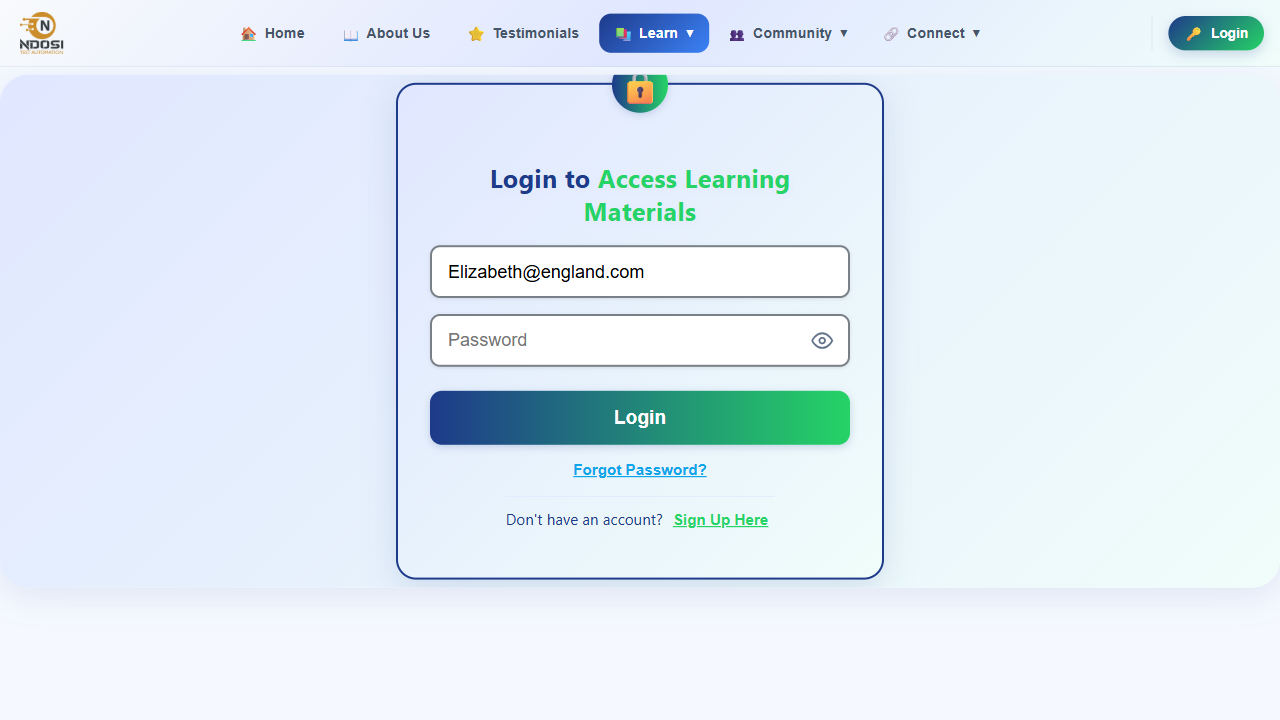
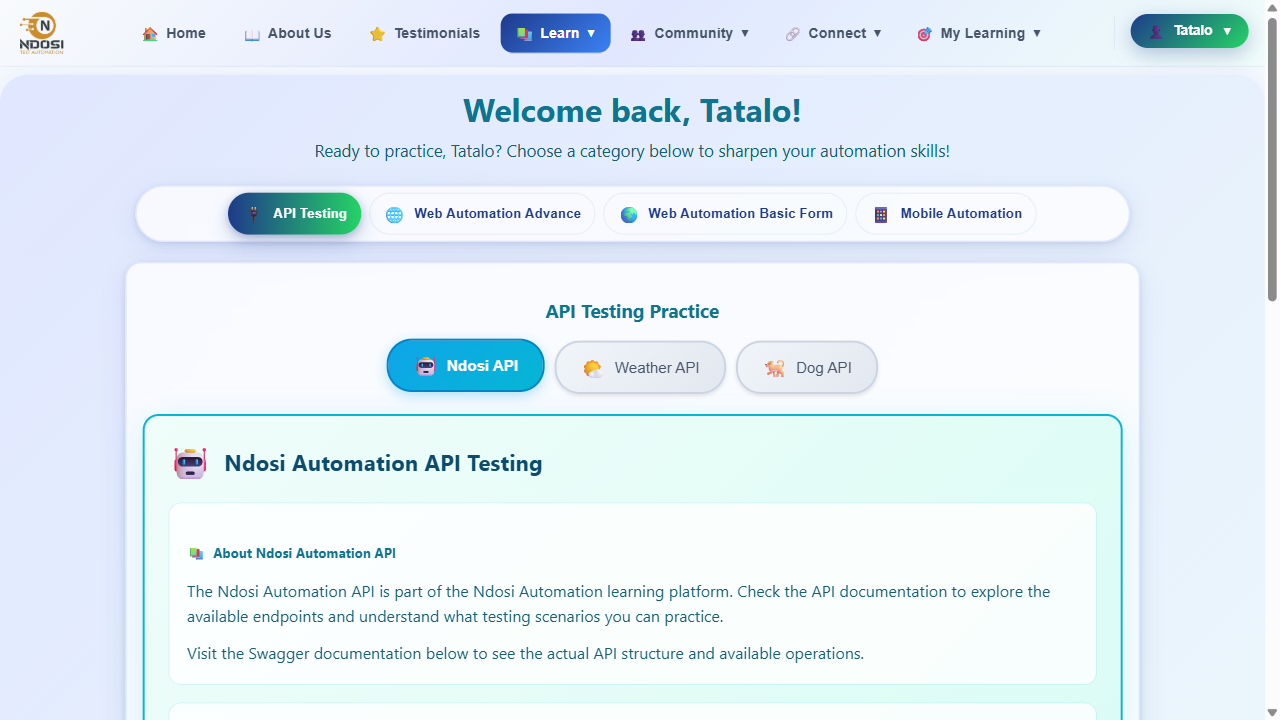
I have updated the Homepage class element locaters.

diff --git a/src/test/java/Pages/HomePage.java b/src/test/java/Pages/HomePage.java
@@ -1,5 +1,6 @@
 package Pages;
 
+import com.microsoft.playwright.Locator;
 import com.microsoft.playwright.Page;
 
 public class HomePage {
@@ -27,12 +28,18 @@ public class HomePage {
 
 
     public HomePage clickUserMenuButton() {
-        page.click(userMenuButton);
+        Locator userMenu = page.locator(userMenuButton)
+                .filter(new Locator.FilterOptions().setHasText("Tatalo"));
+        userMenu.waitFor();
+        userMenu.click();
         return this;
     }
 
+
     public void clickLogout() {
-        page.locator(logoutButton).click();
+        Locator logout = page.locator(logoutButton);
+        logout.waitFor();
+        logout.click();
     }
 
 }

diff --git a/src/test/java/Tests/LoginTests.java b/src/test/java/Tests/LoginTests.java
@@ -75,10 +75,12 @@ public class LoginTests extends BaseTests {
 
         homePage.clickLoginButton();
         loginPage.enterEmail("Elizabeth@england.com")
-                .enterPassword("England@123")
+                .enterPassword("England@123456")
                 .clickSubmitButton();
 
         loginPage.verifyToken(page);
+
+        page.locator("button.user-pill").waitFor();
 
         homePage.clickUserMenuButton()
                 .clickLogout();
